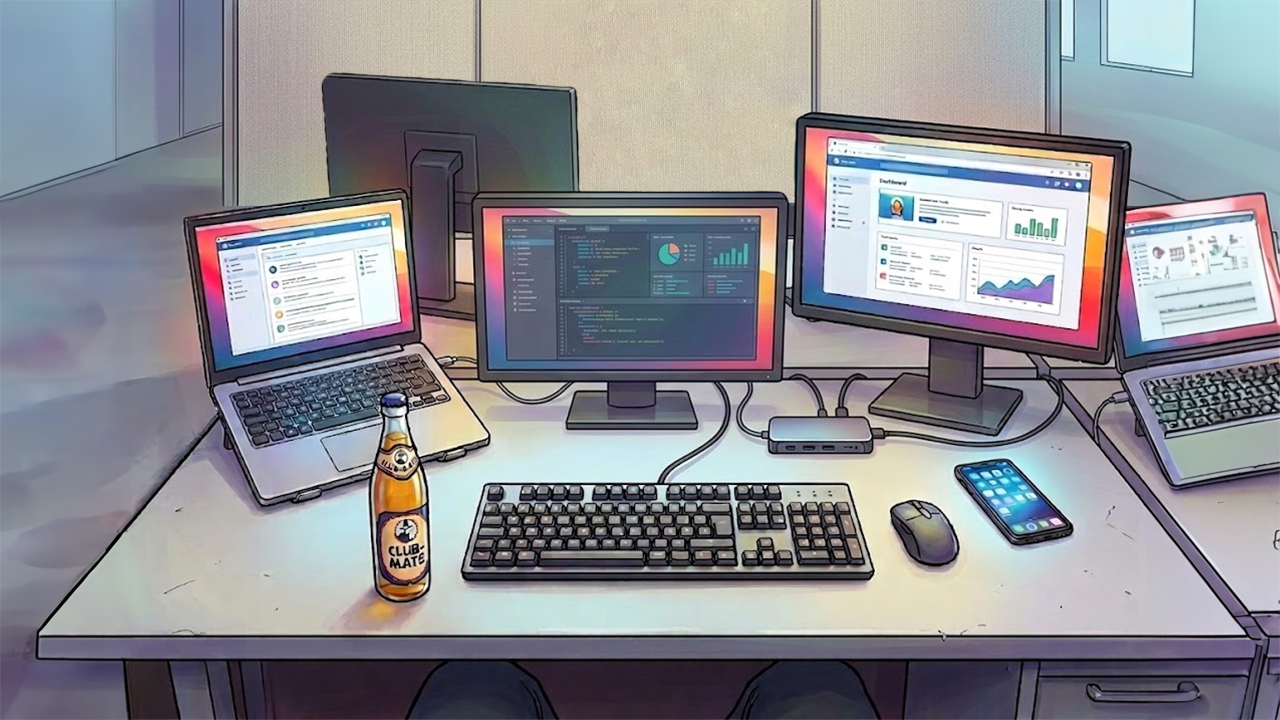
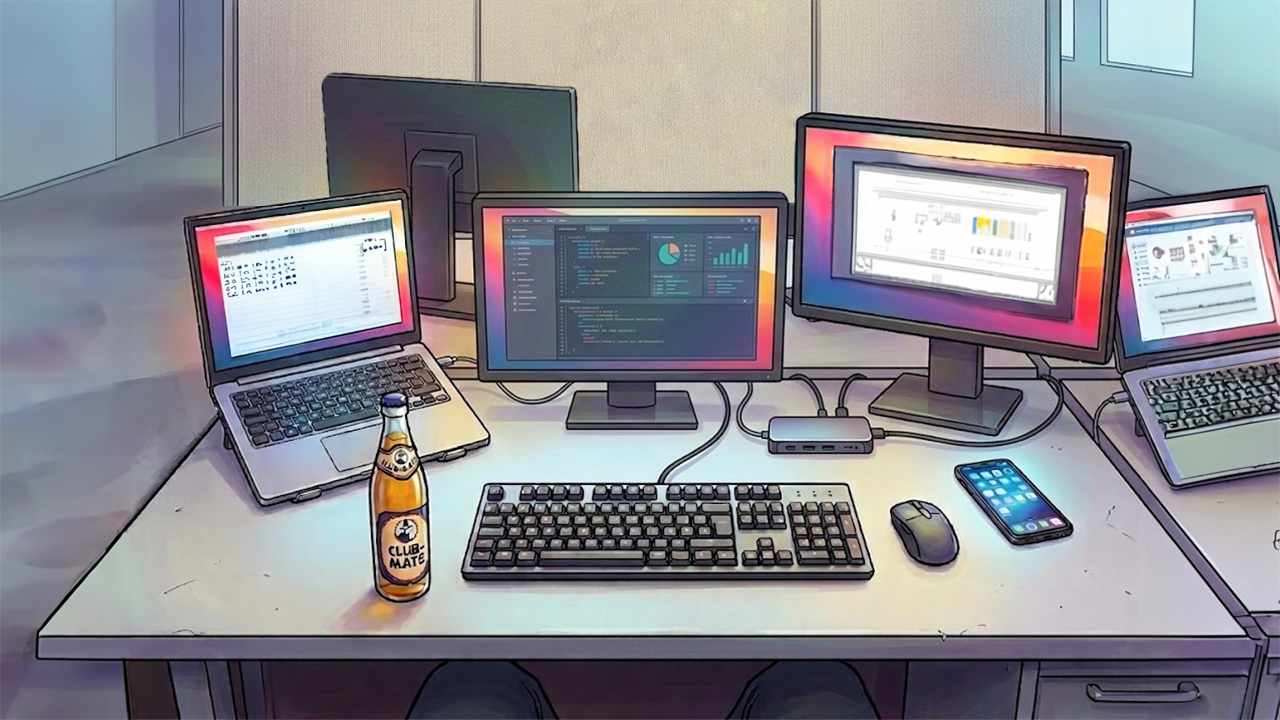
add desk, whiteboard, and flipchart objects to office map and update collisions

Changed region(s): [[0.625, 0.1833, 1.0, 0.4583], [0.1562, 0.275, 0.3125, 0.4889]]

diff --git a/lib/managers/audio_manager.dart b/lib/managers/audio_manager.dart
@@ -16,8 +16,8 @@ class AudioManager {
       GameAudio.intro,
       GameAudio.background,
       GameAudio.pee,
-      GameAudio.fan,
-      GameAudio.buildFailed,
+      // GameAudio.fan,
+      // GameAudio.buildFailed,
     ]);
   }
 
